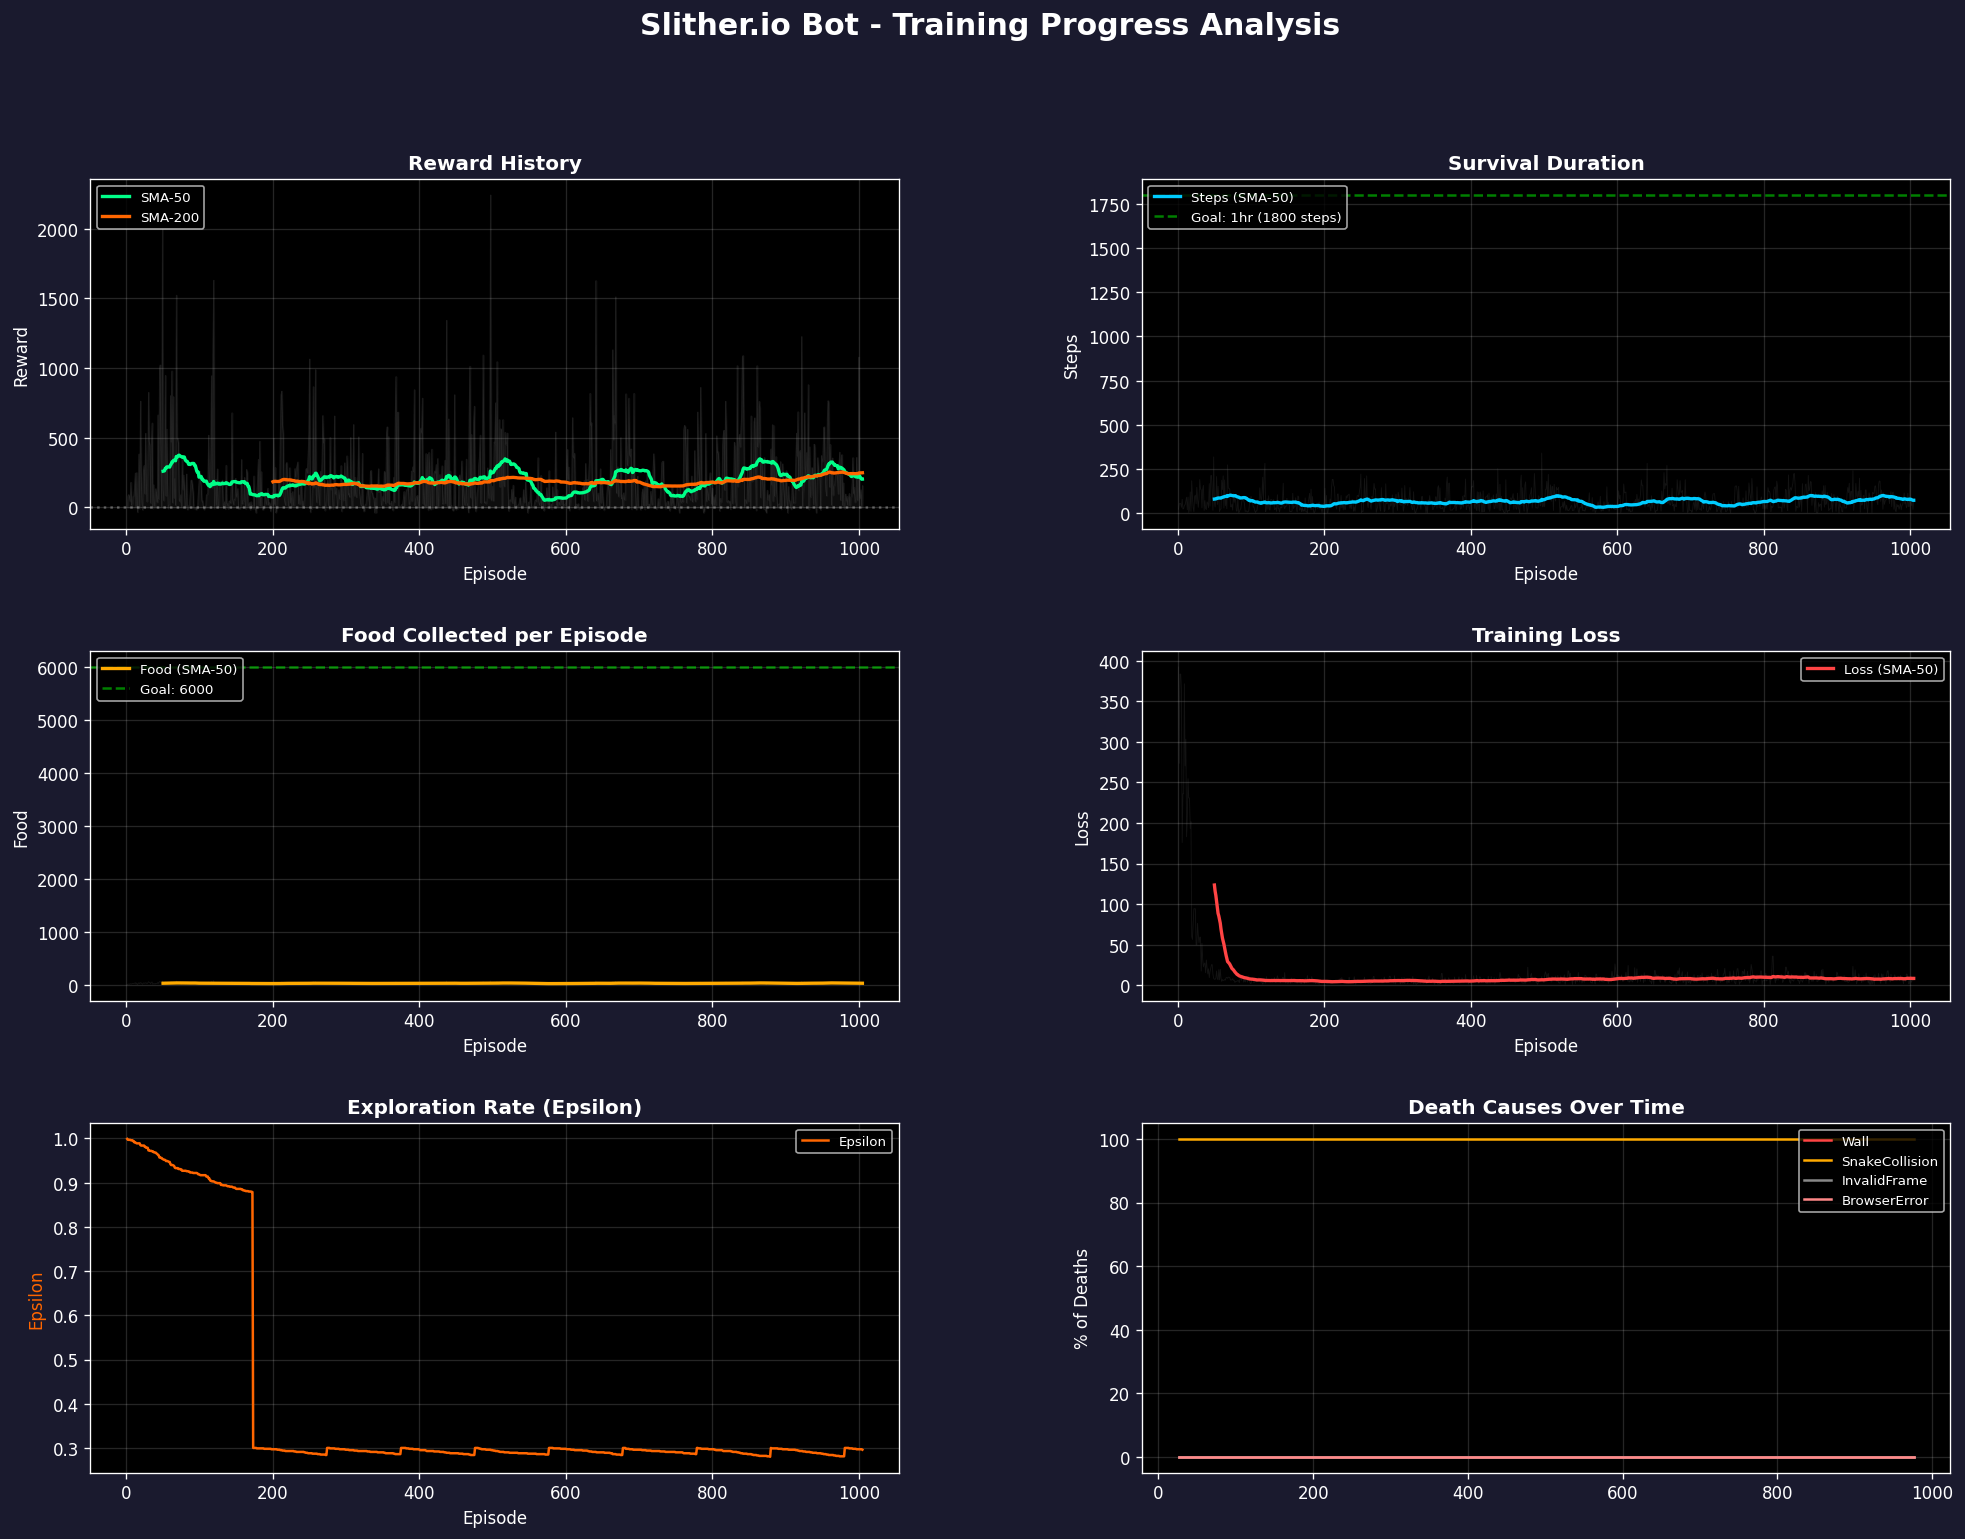
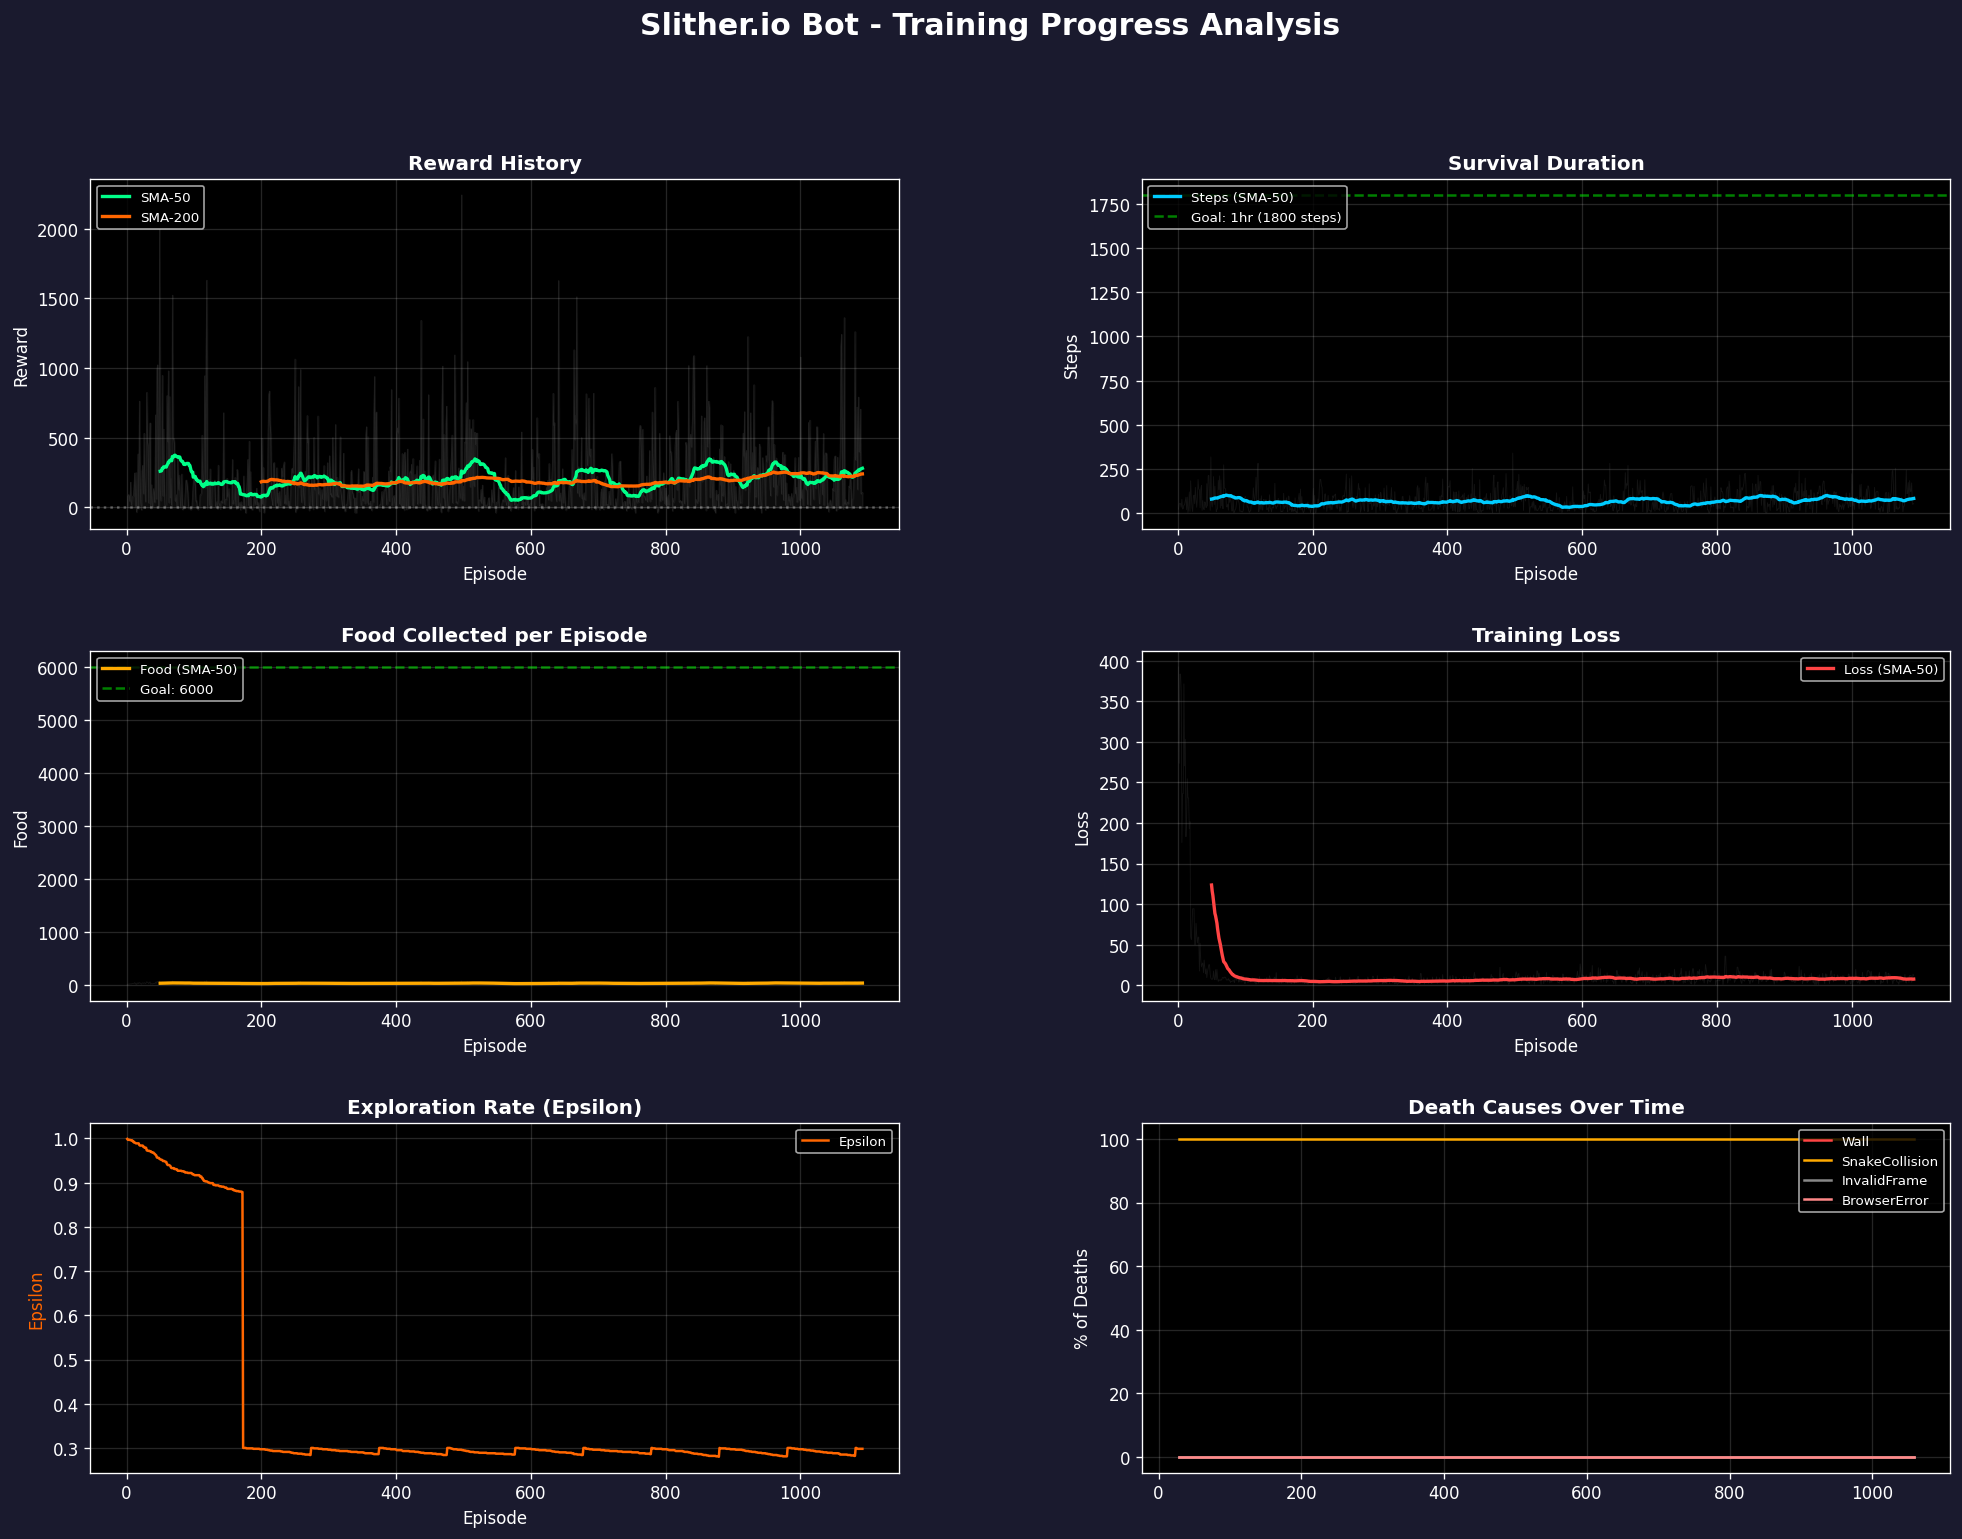
stats

diff --git a/gen2/progress_report.md b/gen2/progress_report.md
@@ -1,27 +1,24 @@
 # Slither.io Bot - Training Progress Report
 
-**Generated:** 2026-02-12 23:35:34  
-**Total Episodes:** 1005  
+**Generated:** 2026-02-12 23:45:38  
+**Total Episodes:** 1092  
 **Training Sessions:** 1
 
-## Verdict: NOT LEARNING (Confidence: 50%)
+## Verdict: NOT LEARNING (Confidence: 45%)
 
 **Goal Feasibility:** UNLIKELY (5-25% chance) without tuning
 
 ### Warnings
-- Rewards flat: change = 5.1 between halves
-
-### Positive Signals
-- Loss decreasing (model converging)
+- Rewards flat: change = 13.0 between halves
 
 ## Key Statistics
 
 | Metric | Mean | Std | Min | Max | P50 | P95 |
 |--------|------|-----|-----|-----|-----|-----|
-| Reward | 193.83 | 262.43 | -38.58 | 2242.28 | 94.47 | 686.40 |
-| Steps | 67.01 | 54.63 | 2.00 | 340.00 | 52.00 | 170.80 |
-| Food | 28.36 | 10.86 | 0.00 | 77.00 | 26.00 | 49.00 |
-| Loss | 12.98 | 37.28 | 0.53 | 392.24 | 6.51 | 21.17 |
+| Reward | 199.07 | 265.70 | -38.58 | 2242.28 | 101.36 | 716.78 |
+| Steps | 68.20 | 55.11 | 2.00 | 340.00 | 54.00 | 173.90 |
+| Food | 28.63 | 10.97 | 0.00 | 77.00 | 26.00 | 49.00 |
+| Loss | 12.61 | 35.81 | 0.53 | 392.24 | 6.54 | 20.33 |
 
 ## Goal Progress
 
@@ -34,7 +31,7 @@
 
 | # | Style | Episodes | Avg Reward | Avg Steps |
 |---|-------|----------|------------|----------|
-| 1 | Standard (Curriculum) | 1-1005 | 193.8 | 67 |
+| 1 | Standard (Curriculum) | 1-1092 | 199.1 | 68 |
 
 ## Recommendations
 
